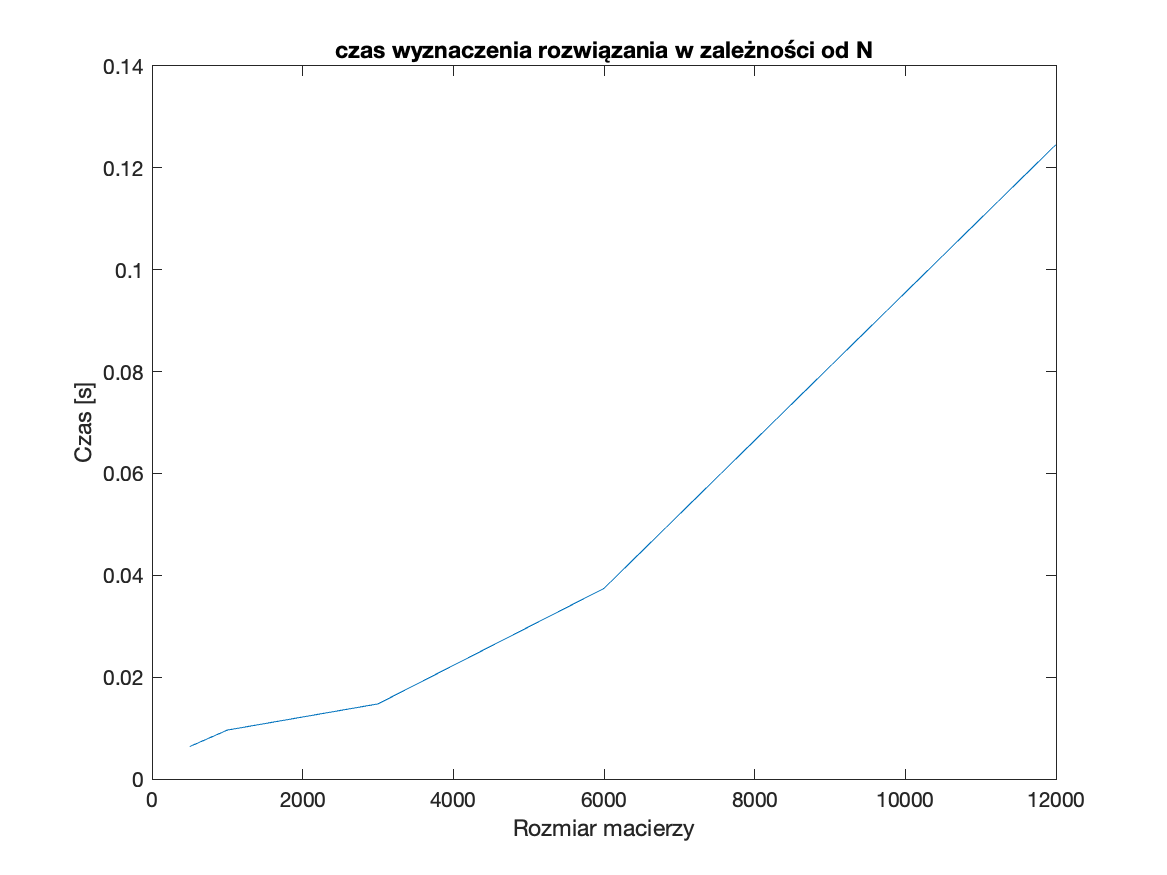
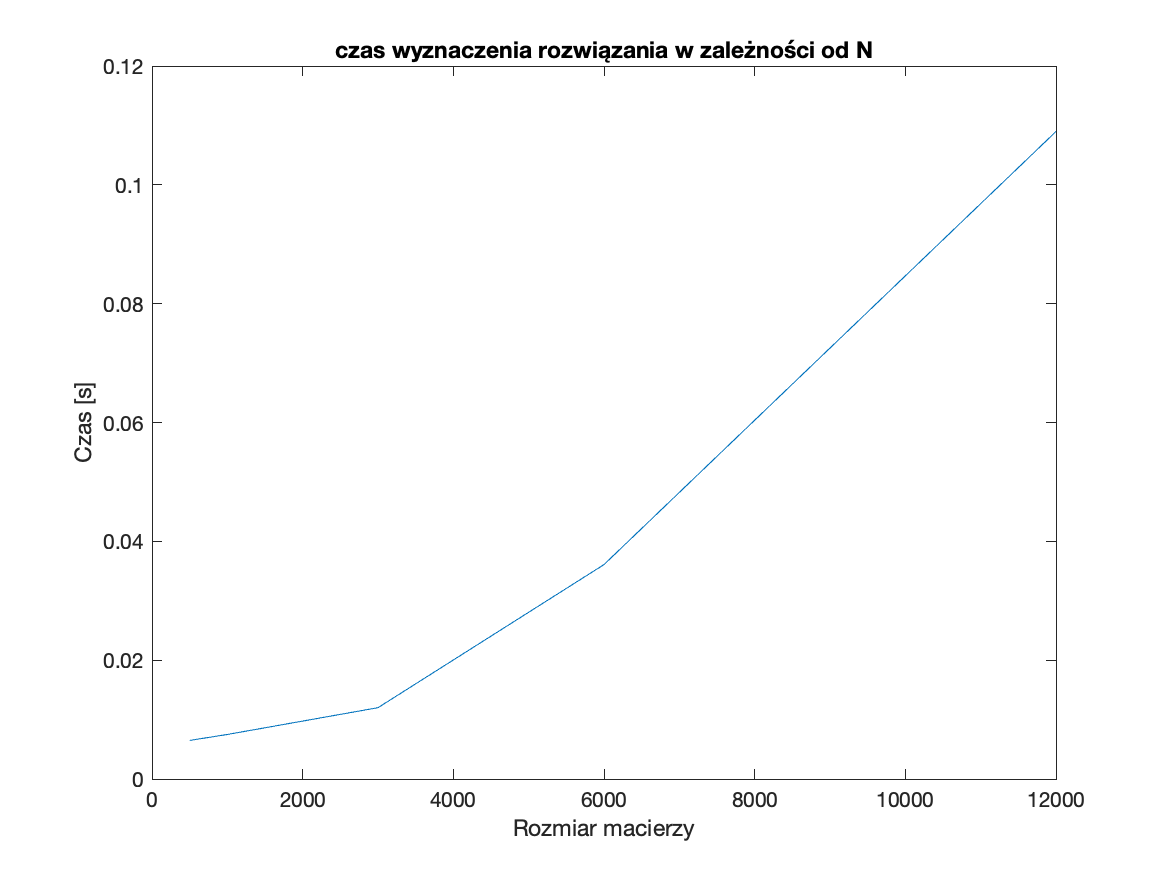
exercise F

diff --git a/lab2/exerciseF.m b/lab2/exerciseF.m
@@ -34,14 +34,14 @@ for i = 1:5
     % która określa najbardziej odpowiedni
     % algorytm do wyznaczenia rozwiązania.
 
-    factor1 = -D \(L + U);
-    factor2 = D \ b;
+    factor1 = -(D + L);
+    factor2 = (D + L) \ b;
   
   
   tic
   while(true)
     number_of_iterations(i) = number_of_iterations(i) + 1;
-    r = factor1*r + factor2;
+    r = factor1 \ (U*r) + factor2;
     res = M*r - b;
 
     if i == 2 % 1000
@@ -59,13 +59,13 @@ plot(N, time)
 title("czas wyznaczenia rozwiązania w zależności od N");
 ylabel("Czas [s]");
 xlabel("Rozmiar macierzy");
-saveas(gcf, 'zadanieE_czas.png');
+saveas(gcf, 'zadanieF_czas.png');
 
 plot(N, number_of_iterations)
 title("liczba iteracji wymagana do osiągnięcia rozwiązania w zależności od N");
 ylabel("Liczba iteracji");
 xlabel("Rozmiar macierzy");
-saveas(gcf, 'zadanieE_iteracje.png');
+saveas(gcf, 'zadanieF_iteracje.png');
 
 % semilogy (oś y w skali logarytmicznej) 
 temp = linspace(1, number_of_iterations(2), number_of_iterations(2));
@@ -73,5 +73,5 @@ semilogy(temp, resy)
 title('norma błędu rezydualnego dla kolejnych iteracji dla rozmiaru macierzy N = 1000')
 ylabel("norma błędu rezydualnego");
 xlabel("Nr iteracjii");
-saveas(gcf, 'zadanieE_norma.png');
+saveas(gcf, 'zadanieF_norma.png');
 %------------------
